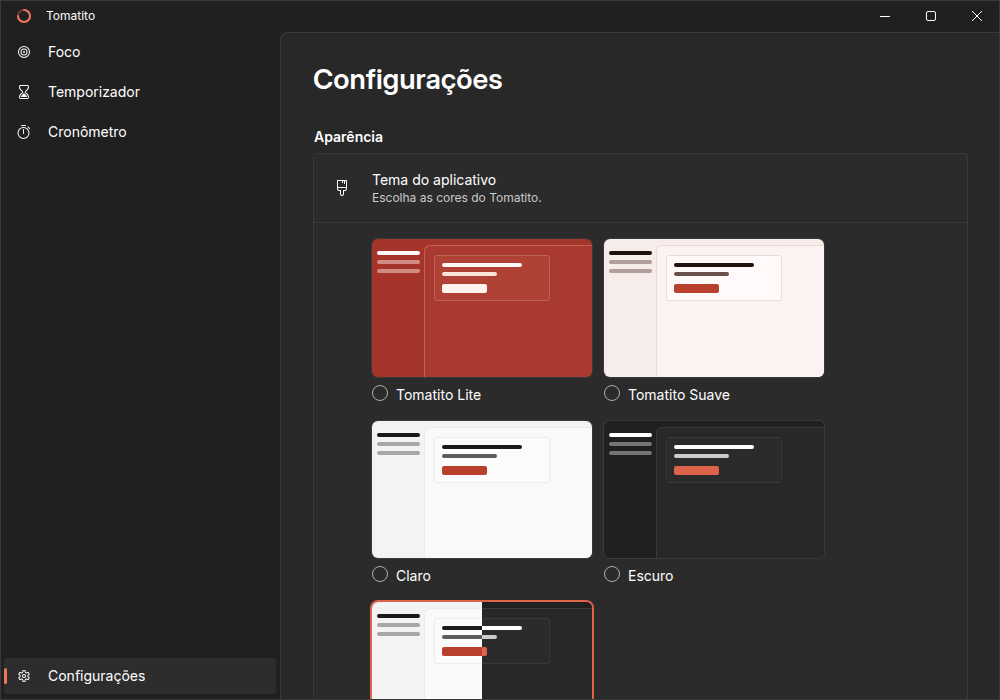
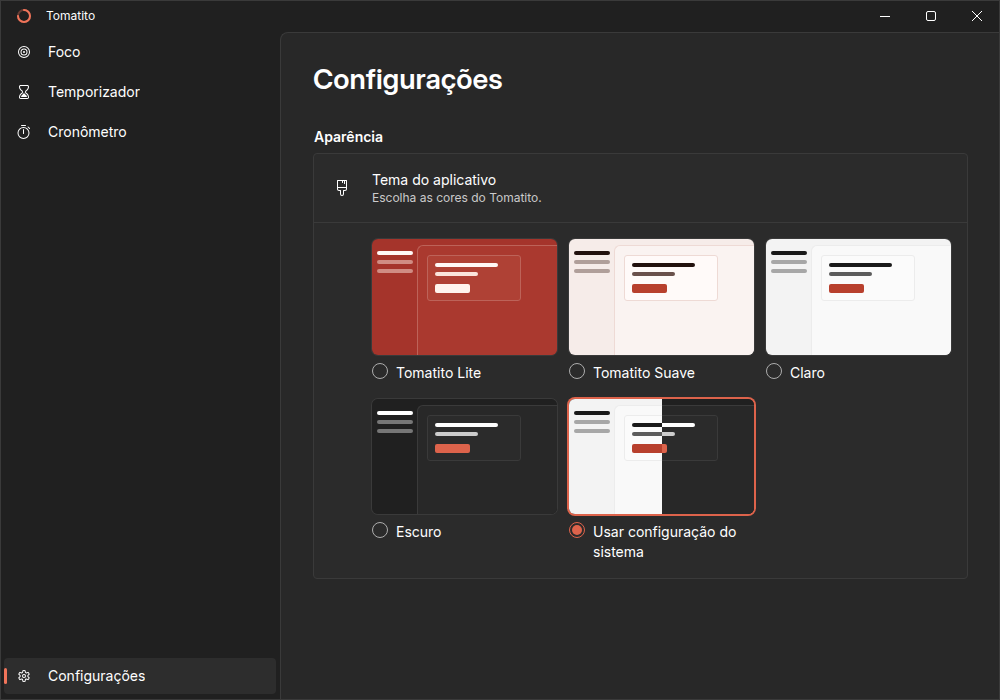
M24: correções da verificação

diff --git a/scripts/gnome-aninhado/roteiros/aparencia.js b/scripts/gnome-aninhado/roteiros/aparencia.js
@@ -158,10 +158,14 @@ function capturar(W, nome) {
   const p = pb.get_pixels();
   const rs = pb.get_rowstride();
   const n = pb.get_n_channels();
-  return (x, y) => [p[y * rs + x * n], p[y * rs + x * n + 1], p[y * rs + x * n + 2]];
+  const w = pb.get_width();
+  const h = pb.get_height();
+  // Fora da captura (uma prévia abaixo da dobra, por exemplo) é null, e a
+  // checagem falha com o motivo em vez de derrubar o roteiro.
+  return (x, y) => (x < 0 || y < 0 || x >= w || y >= h ? null : [p[y * rs + x * n], p[y * rs + x * n + 1], p[y * rs + x * n + 2]]);
 }
 const perto = (a, b, tol = 3) => a && a.every((v, i) => Math.abs(v - b[i]) <= tol);
-const hex = (c) => '#' + c.map((v) => v.toString(16).padStart(2, '0')).join('').toUpperCase();
+const hex = (c) => !c ? 'fora da captura' : '#' + c.map((v) => v.toString(16).padStart(2, '0')).join('').toUpperCase();
 
 let W = null;
 let proc = null;
@@ -202,8 +206,20 @@ async function irParaConfiguracoes() {
   await sleep(600);
   return ler();
 }
+// Rola a página até a opção `tema` caber inteira na janela e relê as caixas
+// (em janelas baixas, a última linha da grade pode ficar abaixo da dobra).
+async function mostrar(tema) {
+  await comando(`(document.querySelector('.tt-tema[data-tema="${tema}"]').scrollIntoView({ block: 'nearest' }), 'ok')`);
+  await sleep(400);
+  return ler();
+}
+const cabe = (e, tema) => {
+  const [, y, , h] = e.molduras[tema];
+  return y >= 0 && y + h + 30 <= e.inner[1];
+};
 // Clica no centro da moldura da prévia `tema` (coordenadas da página + a janela).
 async function clicarNaPrevia(e, tema) {
+  if (!cabe(e, tema)) e = await mostrar(tema);
   const [x, y, w, h] = e.molduras[tema];
   const r = W.get_frame_rect();
   mover(r.x + x + Math.round(w / 2) - 10, r.y + y + Math.round(h / 2) - 10); // entra na janela antes do clique
@@ -245,9 +261,17 @@ async function principal() {
   // Cada prévia pinta o próprio tema: o canto de baixo à esquerda de cada
   // miniatura é o fundo do app do tema; no Sistema, o de baixo à direita é a
   // camada do Escuro.
-  const px = capturar(W, 'm24-configuracoes-lite.png');
+  let px = capturar(W, 'm24-configuracoes-lite.png');
   const amostras = {};
-  for (const [tema, [x, y, w, h]] of Object.entries(e.molduras)) {
+  R.p1_dobra = Object.keys(e.molduras).filter((t) => !cabe(e, t));
+  checar('a 1000×700, as cinco opções cabem na janela sem rolar', R.p1_dobra.length === 0, { fora: R.p1_dobra, inner: e.inner });
+  for (const tema of Object.keys(e.molduras)) {
+    // Uma prévia fora da janela é rolada para dentro e capturada de novo.
+    if (!cabe(e, tema)) {
+      e = await mostrar(tema);
+      px = capturar(W, `m24-configuracoes-lite-${tema}.png`);
+    }
+    const [x, y, w, h] = e.molduras[tema];
     const esq = px(x + 4, y + h - 4);
     const dir = px(x + w - 4, y + h - 4);
     amostras[tema] = { esquerda: hex(esq), direita: hex(dir) };
@@ -295,6 +319,7 @@ async function principal() {
   e = await irParaConfiguracoes();
   // O foco vai para o rádio marcado (Escuro) por um clique no nome dele, e as
   // setas para a esquerda andam até o Lite (Escuro → Claro → Suave → Lite).
+  if (!cabe(e, 'dark')) e = await mostrar('dark');
   const [x, y, w, h] = e.molduras.dark;
   const r = W.get_frame_rect();
   await clicar(r.x + x + 30, r.y + y + h + 14);

diff --git a/src/styles/shell.css b/src/styles/shell.css
@@ -285,7 +285,7 @@
 .tt-config-textos{ display:flex; flex-direction:column; min-width:0; }
 .tt-config-descricao{ color:var(--tt-fg-2); }
 fluent-radio-group.tt-temas{
-  display:grid; grid-template-columns:repeat(auto-fill, minmax(156px, 220px)); gap:16px 12px;
+  display:grid; grid-template-columns:repeat(auto-fill, minmax(156px, 1fr)); gap:16px 12px;
   padding:16px 16px 16px 58px; border-top:1px solid var(--tt-border);
 }
 @container conteudo (width < 560px){ fluent-radio-group.tt-temas{ padding-left:16px; } }

diff --git a/docs/decisoes.md b/docs/decisoes.md
@@ -757,7 +757,7 @@ Seção 5.8 do plano. O código do spike está na branch `spike/full`; a `main` 
 2. **Full fora da lista e sem `switch_window_mode`.** O Full só aparece no M51 e o `switch_window_mode` só existe no M50. O `aplicarTema` (o `applyTheme` da 4.6, em `src/lib/theme.js`) recusa `full` e não tem ainda os dois `invoke('switch_window_mode', ...)` do topo; sair de um `theme = full` gravado à mão é uma gravação comum (a `main` já é a única janela, M23, item 6). Com `theme = full`, nenhuma opção fica marcada. Os dois ramos entram no M50/M51.
 3. **Falha na gravação desfaz a troca** (fora do plano). A 4.6 grava os atributos e depois chama o `settings_set`, sem dizer o que fazer se ele falhar. Aqui, o `<html>` volta ao tema anterior, o tema nativo não muda, a tela remarca a opção anterior e o erro vai para o console. Assim o que se vê nunca fica diferente do que está no disco.
 4. **As prévias são `<span data-theme>`, não `<div>`.** A opção inteira é um `<label>` (clicar na miniatura escolhe o tema, como nas Configurações do Windows), e `<label>` só aceita conteúdo de frase; um `<div>` ali é HTML inválido. O efeito é o mesmo: os seletores `[data-theme]` do `tokens.css` recalculam os tokens dentro do elemento (4.2). A miniatura é uma janela desenhada só com formas (painel, camada de conteúdo e um cartão com duas linhas de texto e a ação principal), `aria-hidden`, fora do ajuste de alto contraste (`forced-color-adjust: none`), porque é uma imagem do tema. No Sistema, a miniatura tem o Claro à esquerda e o Escuro à direita, os dois temas em que ele pode resolver (4.1).
-5. **Layout do cartão.** O Relógio não tem seletor de tema com prévia; a tela segue a captura de Configurações do Relógio (`clock-focus-sessions-settings.png`): título da seção em Body Strong e o cartão no formato do SettingsCard do WinUI (ícone de 20 px, título, descrição em Caption no texto 2, raio 4), com as escolhas embaixo de um divisor, recuadas até a coluna do título, como o conteúdo aberto de um SettingsExpander. O cartão fica sempre aberto (não há o que recolher com uma configuração só; o expansor, se for preciso, vem com as outras configurações no M38). As miniaturas ficam numa grade de 156 a 220 px por coluna; a escolhida ganha um contorno de 2 px em `--tt-accent`. Ícone novo: `paint_brush` (grade 20), copiado pelo `scripts/copy-icons.mjs`.
+5. **Layout do cartão.** O Relógio não tem seletor de tema com prévia; a tela segue a captura de Configurações do Relógio (`clock-focus-sessions-settings.png`): título da seção em Body Strong e o cartão no formato do SettingsCard do WinUI (ícone de 20 px, título, descrição em Caption no texto 2, raio 4), com as escolhas embaixo de um divisor, recuadas até a coluna do título, como o conteúdo aberto de um SettingsExpander. O cartão fica sempre aberto (não há o que recolher com uma configuração só; o expansor, se for preciso, vem com as outras configurações no M38). As miniaturas ficam numa grade de colunas de no mínimo 156 px que dividem a largura (`minmax(156px, 1fr)`): a 1000×700, três por linha, e as cinco opções cabem na janela sem rolar (com `minmax(156px, 220px)`, a primeira versão, eram duas por linha e o "Usar configuração do sistema" ficava abaixo da dobra); a escolhida ganha um contorno de 2 px em `--tt-accent`. Ícone novo: `paint_brush` (grade 20), copiado pelo `scripts/copy-icons.mjs`.
 6. **A tela acompanha o `<html>`, não o contrário.** A `main` ouve o `tt://settings` (`ligarTema`, no `main.js`) e regrava `data-theme-pref` e `data-theme` com o `theme` e o `resolvedTheme` de cada gravação, como na 4.6. A cada troca (daqui ou do evento), o `<html>` dispara o evento `tt-tema`, e a tela de Configurações remarca o rádio certo por ele. Uma escolha igual à atual não grava de novo.
 7. **O `contrast.mjs` lê o `background_for` do `main_window.rs`.** Cada braço `ResolvedTheme::X => Color(0x.., 0x.., 0x.., 0x..)` vira uma cor e é comparado ao `--tt-bg-app` do tema pela mesma cascata da tabela 4.4 (uma tabela nova na saída). Um braço que o script não sabe ler, um tema faltando ou repetido é erro (sai com 1), para uma mudança de formato no Rust não passar calada. A mutação de um lado só (o Suave no Rust, o Escuro no CSS) é acusada no teste.
 8. **Conferências automáticas** (fora do plano, como nos marcos anteriores):
@@ -765,5 +765,5 @@ Seção 5.8 do plano. O código do spike está na branch `spike/full`; a `main` 
    - `src/views/settings.test.js` (novo): as cinco opções na ordem, com os nomes do catálogo e sem o Full, cada prévia com o próprio `data-theme` e sem texto, o grupo com nome e descrição e a opção marcada;
    - `scripts/contrast.test.mjs`: o teste dos fundos da janela, com as mutações e os erros de leitura;
    - `scripts/preview/aparencia.mjs` (novo): no Chrome headless, com clique e setas de verdade, em cada tema de partida, as cores computadas de cada miniatura contra os tokens do próprio tema (pela cascata do `contrast.mjs`), e cada troca (o `<html>`, o patch do `settings_set`, os `setTheme` e a marcação). 30 conferências; uma mutação (a miniatura pintada com o cartão da página) é acusada. O mock da prévia ganhou o `set_theme`, e o `theme()` responde o tema fixado, como o tao;
-   - roteiro aninhado `aparencia` (novo, `resumo-aparencia.mjs`): o app de verdade, aberto três vezes, com o ponteiro e o teclado virtuais do shell (item da verificação manual do M24). A primeira rodada perdeu o primeiro clique: o ponteiro virtual precisa de um movimento antes; o roteiro agora move o ponteiro para dentro da janela antes de clicar;
+   - roteiro aninhado `aparencia` (novo, `resumo-aparencia.mjs`): o app de verdade, aberto três vezes, com o ponteiro e o teclado virtuais do shell (item da verificação manual do M24). A primeira rodada perdeu o primeiro clique: o ponteiro virtual precisa de um movimento antes; o roteiro agora move o ponteiro para dentro da janela antes de clicar; **Correção da verificação:** o commit do M24 trocou o CSS da grade depois da rodada (as capturas eram da grade antiga, de três colunas) e, com a grade nova, a prévia do Sistema caía fora da captura de 1000×700 e o roteiro parava com `TypeError` na leitura do pixel. Agora o roteiro rola até a opção (`scrollIntoView`) antes de ler os pixels ou clicar, a leitura fora da captura vira falha com motivo, e há uma checagem nova, "a 1000×700, as cinco opções cabem na janela sem rolar". Rodada com o código deste commit: 21 de 21, inclusive o clique no Suave com `theme()` = `light`, o `settings.json` gravado e a reabertura no Suave, no Sistema e no Escuro. O controle negativo (a grade antiga de volta) acusa só a checagem da dobra, e o resto do roteiro roda até o fim pela rolagem. As capturas `docs/capturas/m24-configuracoes-*.png` são dessa rodada;
    - `partida-a-frio` com `TT_TEMA` nos quatro temas, `TT_PARTIDAS=3`: 12 partidas a frio, todas limpas, com o binário novo (que agora fixa o tema nativo antes do `show()`).
